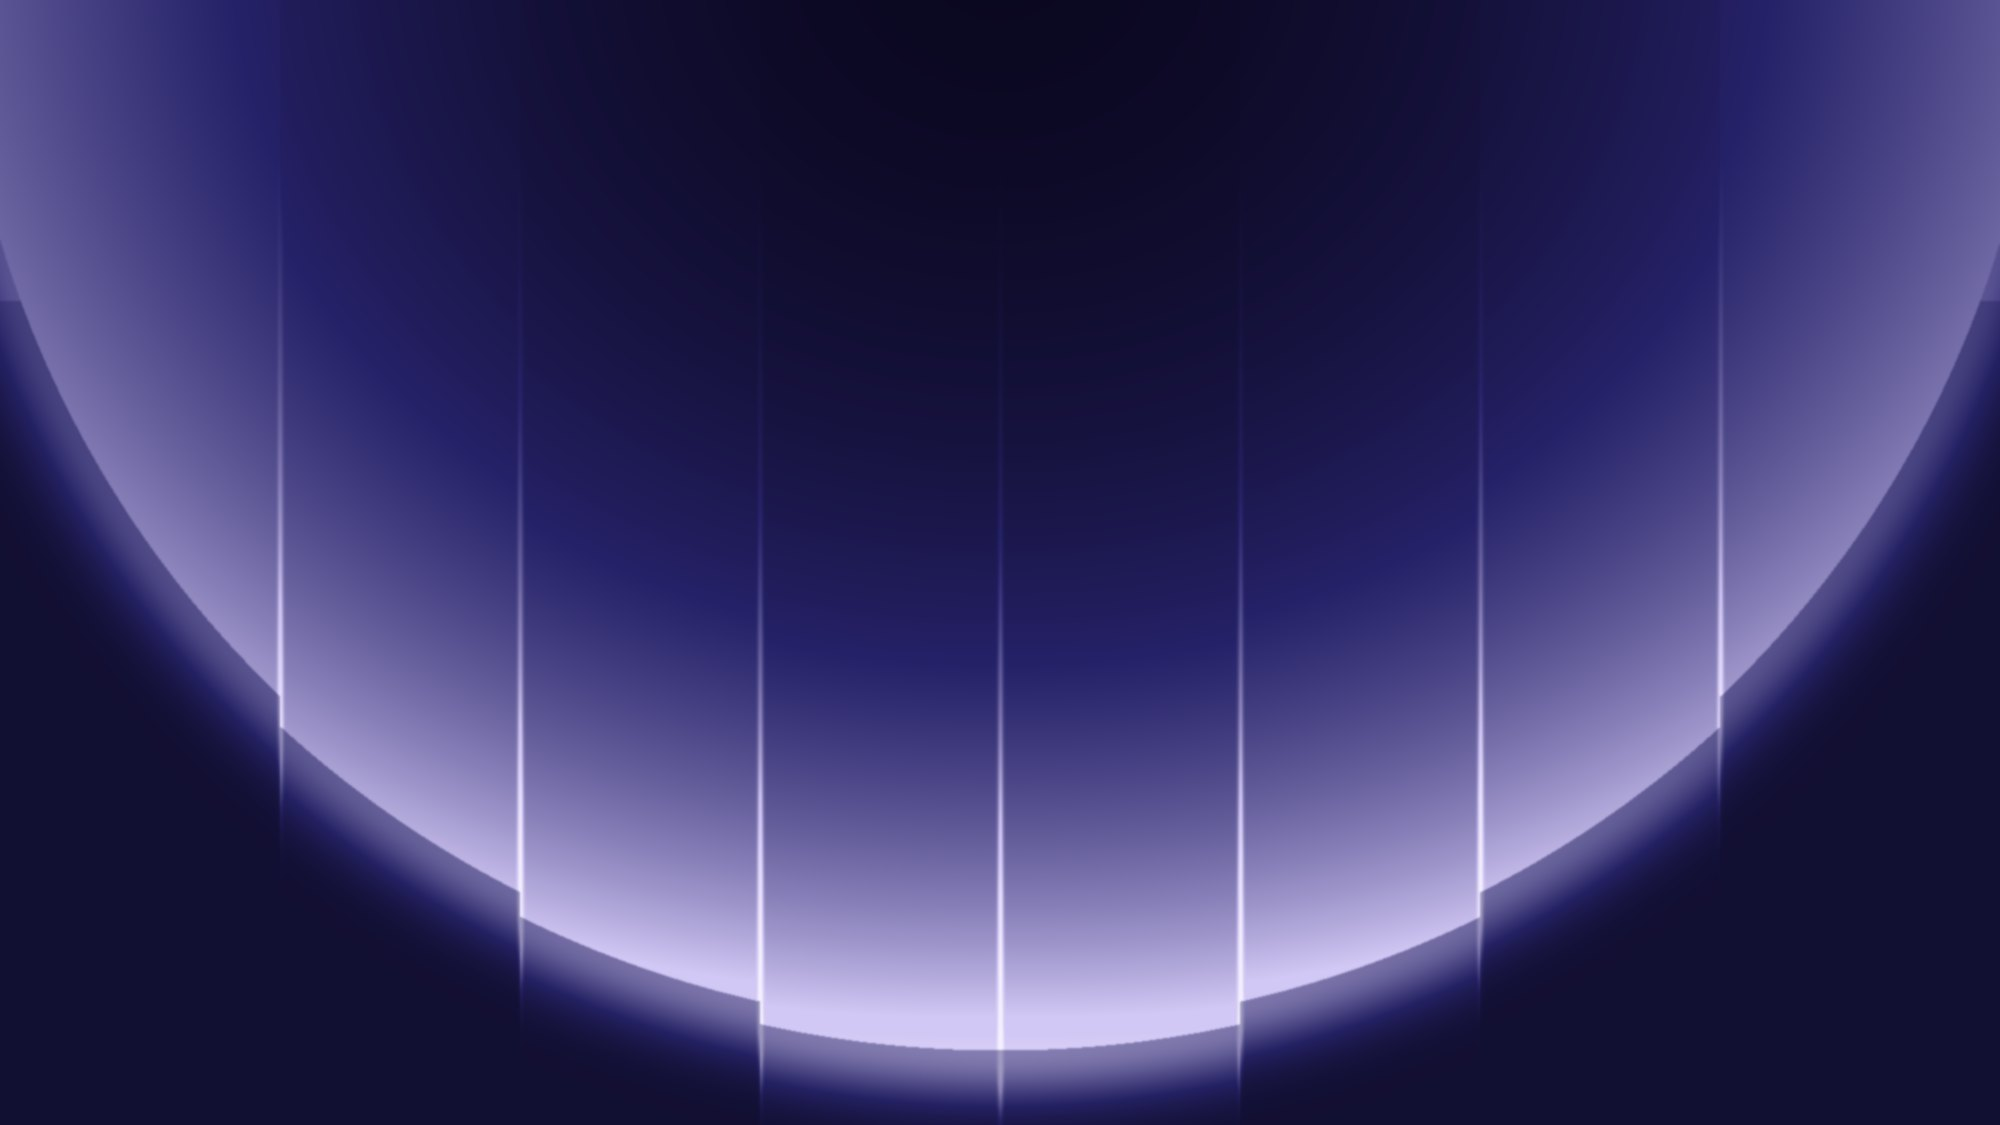
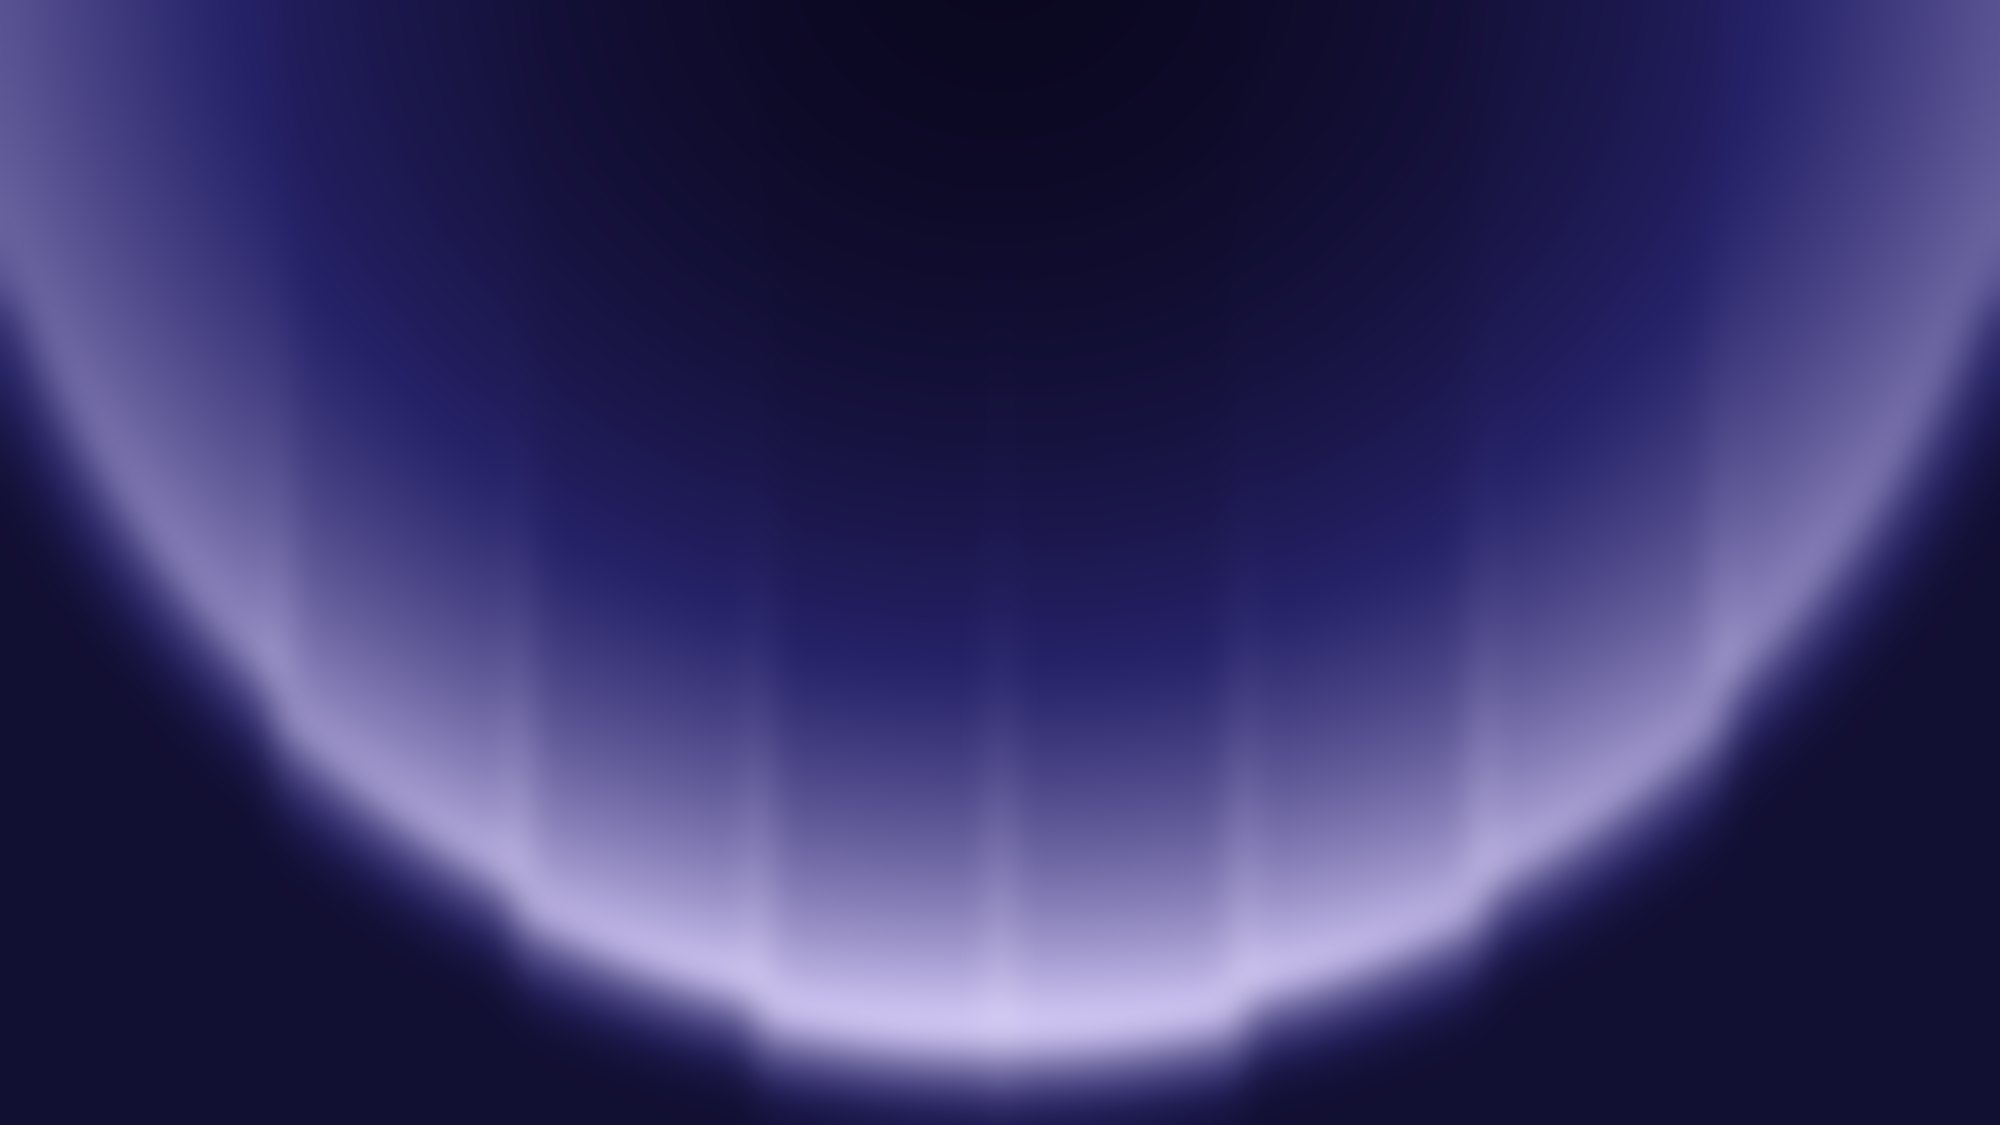
fix(flutter): fondo desenfocado y tarjetas de cristal más transparentes
- El fondo se muestra desenfocado y con un velo más ligero; la copia
  esmerilada de las tarjetas se desenfoca más (`tool/make_background.py`
  regenera ambas).
- Cristal más transparente (tinte 34 % / 46 %) con un reflejo blanco tenue;
  sin sombra debajo, que se veía a través y oscurecía la tarjeta.
- El bocadillo de Alvi también es de cristal.
- Arreglo: el cristal no se actualizaba al desplazar en las tarjetas que
  entran con animación (la capa de opacidad se mueve sin repintarse) y se
  veía una franja con el trozo de fondo equivocado. `RenderFrost` escucha
  el desplazamiento y se repinta; prueba de regresión incluida.

Claude-Session: https://claude.ai/code/session_01X52oSVqZLr5rtP1juLxQFz

diff --git a/flutter_app/lib/screens/insights.dart b/flutter_app/lib/screens/insights.dart
@@ -542,44 +542,82 @@ class _SpeechBubble extends StatelessWidget {
   @override
   Widget build(BuildContext context) {
     final c = context.c;
-    return CustomPaint(
+    final frost = FrostScope.maybeOf(context);
+    Widget body = CustomPaint(
       painter: _BubblePainter(
         tailY: tailY,
-        fill: frosted(c, c.glassStrong, 0.9),
+        fill: frost?.image == null ? frosted(c, c.glassStrong, 0.9) : frostTint(c, frost!.dark, strong: true),
         border: color.withValues(alpha: 0.55),
-        glow: color.withValues(alpha: 0.18),
       ),
       child: Padding(padding: const EdgeInsets.fromLTRB(space5 + _BubblePainter.tail, space4, space5, space4), child: child),
+    );
+    // Cristal esmerilado recortado con la forma del bocadillo
+    if (frost?.image != null) {
+      body = ClipPath(
+        clipper: _BubbleClip(tailY),
+        child: Frost(image: frost!.image!, backdrop: frost.backdrop, child: body),
+      );
+    }
+    return CustomPaint(
+      painter: _BubbleGlow(tailY: tailY, color: color.withValues(alpha: 0.18)),
+      child: body,
     );
   }
 }
 
-class _BubblePainter extends CustomPainter {
-  _BubblePainter({required this.tailY, required this.fill, required this.border, required this.glow});
+/// Forma del bocadillo: rectángulo redondeado con la colita a la izquierda, a la altura [tailY].
+Path _bubbleShape(Size size, double tailY) {
+  const tail = _BubblePainter.tail;
+  final body = RRect.fromRectAndRadius(Rect.fromLTWH(tail, 0, size.width - tail, size.height), const Radius.circular(radiusLg));
+  final y = tailY.clamp(radiusLg + 10, size.height - radiusLg - 10).toDouble();
+  return Path.combine(
+    PathOperation.union,
+    Path()..addRRect(body),
+    Path()
+      ..moveTo(tail + 1, y - 10)
+      ..quadraticBezierTo(tail * 0.4, y - 2, 0, y + 6)
+      ..quadraticBezierTo(tail * 0.7, y + 6, tail + 1, y + 10)
+      ..close(),
+  );
+}
+
+class _BubbleClip extends CustomClipper<Path> {
+  _BubbleClip(this.tailY);
   final double tailY;
-  final Color fill, border, glow;
+
+  @override
+  Path getClip(Size size) => _bubbleShape(size, tailY);
+
+  @override
+  bool shouldReclip(_BubbleClip old) => old.tailY != tailY;
+}
+
+class _BubbleGlow extends CustomPainter {
+  _BubbleGlow({required this.tailY, required this.color});
+  final double tailY;
+  final Color color;
+
+  @override
+  void paint(Canvas canvas, Size size) => canvas.drawPath(
+    _bubbleShape(size, tailY),
+    Paint()
+      ..color = color
+      ..maskFilter = const MaskFilter.blur(BlurStyle.normal, 18),
+  );
+
+  @override
+  bool shouldRepaint(_BubbleGlow old) => old.tailY != tailY || old.color != color;
+}
+
+class _BubblePainter extends CustomPainter {
+  _BubblePainter({required this.tailY, required this.fill, required this.border});
+  final double tailY;
+  final Color fill, border;
   static const tail = 12.0;
 
   @override
   void paint(Canvas canvas, Size size) {
-    final body = RRect.fromRectAndRadius(Rect.fromLTWH(tail, 0, size.width - tail, size.height), const Radius.circular(radiusLg));
-    // La colita apunta a la cara de Alvi
-    final y = tailY.clamp(radiusLg + 10, size.height - radiusLg - 10).toDouble();
-    final shape = Path.combine(
-      PathOperation.union,
-      Path()..addRRect(body),
-      Path()
-        ..moveTo(tail + 1, y - 10)
-        ..quadraticBezierTo(tail * 0.4, y - 2, 0, y + 6)
-        ..quadraticBezierTo(tail * 0.7, y + 6, tail + 1, y + 10)
-        ..close(),
-    );
-    canvas.drawPath(
-      shape,
-      Paint()
-        ..color = glow
-        ..maskFilter = const MaskFilter.blur(BlurStyle.normal, 18),
-    );
+    final shape = _bubbleShape(size, tailY);
     canvas.drawPath(shape, Paint()..color = fill);
     canvas.drawPath(
       shape,
@@ -591,7 +629,7 @@ class _BubblePainter extends CustomPainter {
   }
 
   @override
-  bool shouldRepaint(_BubblePainter old) => old.tailY != tailY || old.fill != fill || old.border != border || old.glow != glow;
+  bool shouldRepaint(_BubblePainter old) => old.tailY != tailY || old.fill != fill || old.border != border;
 }
 
 // ─── Acceso a la sala de espera ─────────────────────────────────────────────────────────────────

diff --git a/flutter_app/lib/ui/glass.dart b/flutter_app/lib/ui/glass.dart
@@ -70,7 +70,7 @@ class _CrBackdropState extends State<CrBackdrop> {
                         begin: Alignment.topCenter,
                         end: Alignment.bottomCenter,
                         colors: dark
-                            ? [c.bg.withValues(alpha: 0.45), c.bg.withValues(alpha: 0.72)]
+                            ? [c.bg.withValues(alpha: 0.30), c.bg.withValues(alpha: 0.55)]
                             : [c.bg.withValues(alpha: 0.70), c.bg.withValues(alpha: 0.84)],
                       ),
                     ),
@@ -107,14 +107,17 @@ class Frost extends SingleChildRenderObjectWidget {
   final ui.Image image;
   final GlobalKey backdrop;
 
+  // Muchas tarjetas van dentro de capas que Flutter mueve sin repintar al desplazar (p. ej. la
+  // opacidad de la animación de entrada): el cristal escucha el desplazamiento y se repinta solo.
   @override
-  RenderObject createRenderObject(BuildContext context) => RenderFrost(image, backdrop);
+  RenderObject createRenderObject(BuildContext context) => RenderFrost(image, backdrop)..position = Scrollable.maybeOf(context)?.position;
 
   @override
   void updateRenderObject(BuildContext context, RenderFrost renderObject) {
     renderObject
       ..image = image
-      ..backdrop = backdrop;
+      ..backdrop = backdrop
+      ..position = Scrollable.maybeOf(context)?.position;
   }
 }
 
@@ -122,6 +125,26 @@ class RenderFrost extends RenderProxyBox {
   RenderFrost(this._image, this.backdrop);
   ui.Image _image;
   GlobalKey backdrop;
+  ScrollPosition? _position;
+
+  set position(ScrollPosition? v) {
+    if (v == _position) return;
+    if (attached) _position?.removeListener(markNeedsPaint);
+    _position = v;
+    if (attached) _position?.addListener(markNeedsPaint);
+  }
+
+  @override
+  void attach(PipelineOwner owner) {
+    super.attach(owner);
+    _position?.addListener(markNeedsPaint);
+  }
+
+  @override
+  void detach() {
+    _position?.removeListener(markNeedsPaint);
+    super.detach();
+  }
 
   set image(ui.Image v) {
     if (v == _image) return;
@@ -142,6 +165,15 @@ class RenderFrost extends RenderProxyBox {
       canvas.save();
       canvas.clipRect(offset & size);
       canvas.drawImageRect(_image, src, dst, Paint()..filterQuality = FilterQuality.low);
+      // Reflejo del cristal: un velo blanco muy tenue que se apaga hacia abajo
+      canvas.drawRect(
+        offset & size,
+        Paint()
+          ..shader = ui.Gradient.linear(offset, offset + Offset(size.width * 0.4, size.height), [
+            Colors.white.withValues(alpha: 0.07),
+            Colors.white.withValues(alpha: 0),
+          ]),
+      );
       canvas.restore();
     }
     super.paint(context, offset);
@@ -200,7 +232,7 @@ Widget _frosted(FrostScope? scope, Widget child) =>
 
 /// Tinte sobre el fondo desenfocado: deja ver el color de la imagen y mantiene el texto legible.
 Color frostTint(CrPalette c, bool dark, {bool strong = false}) =>
-    dark ? const Color(0xFF0B0612).withValues(alpha: strong ? 0.66 : 0.52) : Colors.white.withValues(alpha: strong ? 0.72 : 0.58);
+    dark ? const Color(0xFF0B0612).withValues(alpha: strong ? 0.46 : 0.34) : Colors.white.withValues(alpha: strong ? 0.62 : 0.48);
 
 /// Vidrio «esmerilado» sin desenfoque real: mezcla el tinte del vidrio con el fondo para que
 /// el contenido se lea bien. Desenfocar lo que hay detrás en cada fotograma es muy costoso
@@ -265,8 +297,9 @@ class _GlassState extends State<Glass> {
     if (widget.onTap != null) {
       body = GestureDetector(behavior: HitTestBehavior.opaque, onTap: widget.onTap, child: body);
     }
+    // Bajo el cristal transparente una sombra se vería a través: solo se pinta sin imagen de fondo
     Widget glass = DecoratedBox(
-      decoration: BoxDecoration(borderRadius: shape, boxShadow: [widget.strong ? c.shadowLift : c.shadowGlass]),
+      decoration: BoxDecoration(borderRadius: shape, boxShadow: frost != null ? null : [widget.strong ? c.shadowLift : c.shadowGlass]),
       child: ClipRRect(
         borderRadius: shape,
         child: _frosted(

diff --git a/flutter_app/test/cards_test.dart b/flutter_app/test/cards_test.dart
@@ -1,7 +1,11 @@
 import 'package:alvea_app/core/models.dart';
 import 'package:alvea_app/screens/accounts.dart';
 import 'package:alvea_app/screens/flow_chart.dart';
+
+import 'dart:ui' as ui;
+
 import 'package:alvea_app/ui/deal_card.dart';
+import 'package:alvea_app/ui/glass.dart';
 import 'package:alvea_app/ui/theme.dart';
 import 'package:flutter/material.dart';
 import 'package:flutter_test/flutter_test.dart';
@@ -93,5 +97,56 @@ void main() {
     );
     await tester.pumpAndSettle();
     expect(find.textContaining('631,48'), findsOneWidget);
+  });
+
+  testWidgets('el cristal se repinta al desplazar aunque esté dentro de una capa de opacidad', (tester) async {
+    late ui.Image img;
+    await tester.runAsync(() async {
+      final rec = ui.PictureRecorder();
+      Canvas(rec).drawColor(Colors.purple, BlendMode.src);
+      img = await rec.endRecording().toImage(8, 8);
+    });
+    final scroll = ScrollController();
+    final backdrop = GlobalKey();
+    await tester.pumpWidget(
+      MaterialApp(
+        theme: buildTheme(Brightness.dark),
+        home: FrostScope(
+          image: img,
+          backdrop: backdrop,
+          dark: true,
+          child: Stack(
+            children: [
+              Positioned.fill(
+                child: RepaintBoundary(
+                  key: backdrop,
+                  child: const ColoredBox(color: Colors.black),
+                ),
+              ),
+              SingleChildScrollView(
+                controller: scroll,
+                child: Column(
+                  children: const [
+                    // La opacidad (como la de la animación de entrada) es una capa que no se repinta al desplazar
+                    Opacity(
+                      opacity: 0.99,
+                      child: SizedBox(height: 200, child: Glass(child: SizedBox.expand())),
+                    ),
+                    SizedBox(height: 2000),
+                  ],
+                ),
+              ),
+            ],
+          ),
+        ),
+      ),
+    );
+    await tester.pump();
+    final frost = tester.renderObject<RenderFrost>(find.byType(Frost));
+    expect(frost.debugNeedsPaint, isFalse);
+    scroll.jumpTo(120);
+    expect(frost.debugNeedsPaint, isTrue);
+    await tester.pump();
+    expect(frost.debugNeedsPaint, isFalse);
   });
 }

diff --git a/flutter_app/tool/make_background.py b/flutter_app/tool/make_background.py
@@ -1,0 +1,50 @@
+"""Genera el fondo de Alvea 2 y su copia esmerilada (para el cristal de las tarjetas).
+
+Uso: python3 tool/make_background.py assets/backgrounds
+Recrea la imagen de paneles con arco de luz que eligió el usuario; para usar una foto propia,
+reemplaza fondo.jpg (desenfocada) y fondo_esmerilado.jpg (mucho más desenfocada, ~800 px).
+"""
+
+import sys
+import numpy as np
+from PIL import Image, ImageFilter, ImageEnhance
+out = sys.argv[1]
+W, H = 2000, 1125
+x = np.arange(W)[None, :].astype(np.float32)
+y = np.arange(H)[:, None].astype(np.float32)
+edges = [0, 280, 520, 760, 1000, 1240, 1480, 1720, 2000]
+side_of = np.zeros((1, W), dtype=np.float32)
+for i in range(len(edges) - 1):
+    side_of[0, edges[i]:edges[i + 1]] = abs(i - 3.5) - 0.5  # 0 en los paneles centrales … 3 en los bordes
+# Gran arco de luz en U: borde de un círculo centrado arriba; cada panel con su radio (escalonado)
+cx, cy = 1000.0, -60.0
+dist = np.sqrt((x - cx) ** 2 + (y - cy) ** 2)
+r = 1110 - side_of * 22
+inside = dist < r
+s = (r - dist) / 640.0
+glow = np.where(inside, np.exp(-s * 2.0), np.exp(-((dist - r) / 55.0) ** 2) * 0.85)
+# Más intenso en el centro, más tenue y azulado a los lados
+center = 1 - np.clip(np.abs(x - cx) / 1000, 0, 1) ** 1.6 * 0.45
+glow = glow * center
+# Filos de luz verticales en los bordes de los paneles
+lines = np.zeros_like(glow)
+for e in edges[1:-1]:
+    lines += np.exp(-((x - e) ** 2) / (2 * 1.8 ** 2))
+lines *= np.clip(glow * 1.6, 0, 1) * np.clip((y - 150) / 650, 0, 1)
+glow = np.clip(glow + lines * 0.55, 0, 1.25)
+navy = np.array([7, 4, 22], dtype=np.float32)
+indigo = np.array([38, 34, 105], dtype=np.float32)
+lav = np.array([210, 200, 245], dtype=np.float32)
+white = np.array([245, 240, 255], dtype=np.float32)
+g = glow[..., None]
+col = navy + (indigo - navy) * np.clip(g / 0.3, 0, 1)
+col = col + (lav - indigo) * np.clip((g - 0.3) / 0.6, 0, 1)
+col = col + (white - lav) * np.clip((g - 0.95) / 0.3, 0, 1)
+# Fuera del arco (abajo a los lados) queda un azul profundo
+outside = (~inside)[..., None] & (y[..., None] > 300)
+col = np.where(outside, col * 0.6 + np.array([34, 32, 92]) * 0.4, col)
+img = Image.fromarray(np.clip(col, 0, 255).astype(np.uint8)).filter(ImageFilter.GaussianBlur(1.0))
+# Fondo desenfocado (pedido del usuario): conserva las formas pero sin bordes nítidos
+img.filter(ImageFilter.GaussianBlur(16)).save(f"{out}/fondo.jpg", quality=86, optimize=True, progressive=True)
+frost = ImageEnhance.Brightness(img.filter(ImageFilter.GaussianBlur(55))).enhance(0.9).resize((800, 450), Image.LANCZOS)
+frost.save(f"{out}/fondo_esmerilado.jpg", quality=80, optimize=True, progressive=True)
